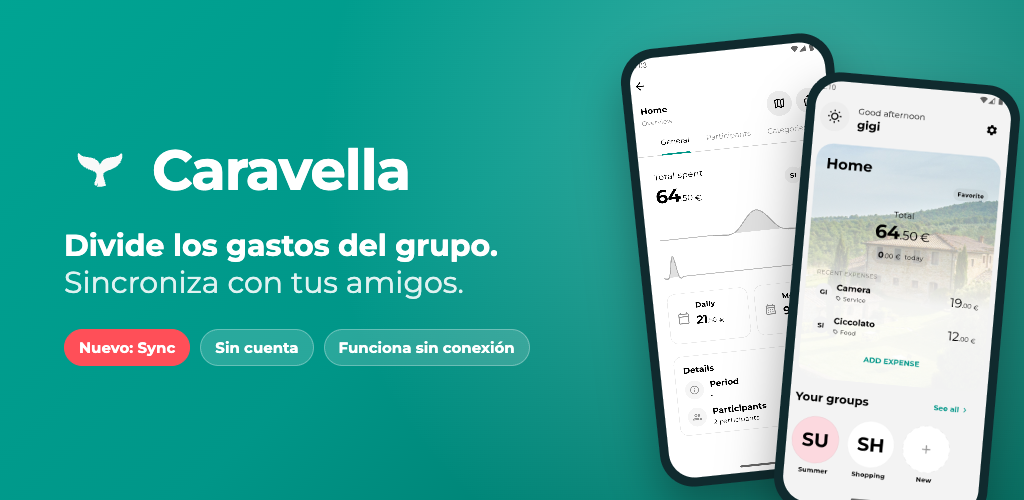
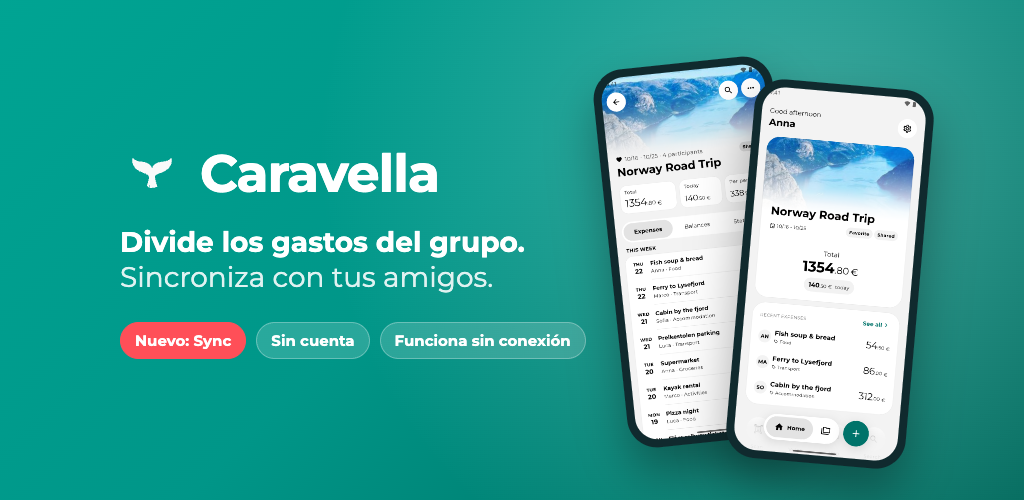
Play feature graphic: keep content in the safe area, 2.2 screenshots
Google Play zooms and crops the feature graphic, which cut the left edge of the text and the chips. Text starts at 120px, phones are smaller and closer to the centre, and they show the 2.2 Home and group page.

Changed region(s): [[0.0625, 0.06, 1.0, 1.0], [0.0625, 0.45, 0.5312, 0.6], [0.0625, 0.3, 0.4375, 0.39]]

diff --git a/store/assets/feature-graphic/feature-graphic.html b/store/assets/feature-graphic/feature-graphic.html
@@ -22,23 +22,26 @@
       radial-gradient(160px 50px at 120px 140px, rgba(255,255,255,.06) 98%, transparent) repeat-x;
     background-size: 240px 120px, 320px 120px;
   }
-  .copy { position: absolute; left: 64px; top: 0; bottom: 0; width: 520px;
+    /* Play zooms and crops the graphic (rounded card, ~10% off each side in
+     some layouts) and overlays badges bottom-right: keep text and phones in
+     the centre safe area. */
+  .copy { position: absolute; left: 120px; top: 0; bottom: 0; width: 470px;
           display: flex; flex-direction: column; justify-content: center; }
   .brand { display: flex; align-items: center; gap: 16px; }
-  .brand img { width: 72px; height: 72px; }
-  .brand h1 { font-size: 56px; font-weight: 700; letter-spacing: -1px; }
-  .tagline { margin-top: 22px; font-size: 30px; font-weight: 700; line-height: 1.22; }
+  .brand img { width: 64px; height: 64px; }
+  .brand h1 { font-size: 52px; font-weight: 700; letter-spacing: -1px; }
+  .tagline { margin-top: 20px; font-size: 28px; font-weight: 700; line-height: 1.22; }
   .tagline span { display: block; }
   .tagline .soft { font-weight: 400; color: #e0f2f1; }
   .chips { margin-top: 28px; display: flex; flex-wrap: wrap; gap: 10px; }
   .chip { font-size: 15px; font-weight: 700; padding: 8px 14px; border-radius: 999px;
           background: rgba(255,255,255,.16); border: 1px solid rgba(255,255,255,.28); }
   .chip.accent { background: #ff4f58; border-color: #ff4f58; }
-  .phone { position: absolute; width: 214px; height: 440px; border-radius: 34px; padding: 9px;
+  .phone { position: absolute; width: 180px; height: 380px; border-radius: 30px; padding: 8px;
            background: #102a2e; box-shadow: 0 24px 48px rgba(0,0,0,.35); }
-  .phone img { width: 100%; height: 100%; object-fit: cover; object-position: top; border-radius: 26px; display: block; }
-  .p1 { left: 640px; top: 40px; transform: rotate(-6deg); }
-  .p2 { left: 790px; top: 78px; transform: rotate(5deg); }
+  .phone img { width: 100%; height: 100%; object-fit: cover; object-position: top; border-radius: 23px; display: block; }
+  .p1 { left: 610px; top: 62px; transform: rotate(-6deg); }
+  .p2 { left: 740px; top: 84px; transform: rotate(5deg); }
 </style>
 </head>
 <body>
@@ -47,8 +50,8 @@
     <p class="tagline"><span id="t1"></span><span class="soft" id="t2"></span></p>
     <div class="chips" id="chips"></div>
   </div>
-  <div class="phone p1"><img src="../../screenshot/08 - Group - Stats.png" alt=""></div>
-  <div class="phone p2"><img src="../../screenshot/02 - HomePage.png" alt=""></div>
+  <div class="phone p1"><img src="../../screenshots/raw/05-group.png" alt=""></div>
+  <div class="phone p2"><img src="../../screenshots/raw/01-home.png" alt=""></div>
 <script>
   const texts = {
     en: ["Split group expenses.", "Sync with friends.", ["New: Sync", "No account", "Works offline"]],
